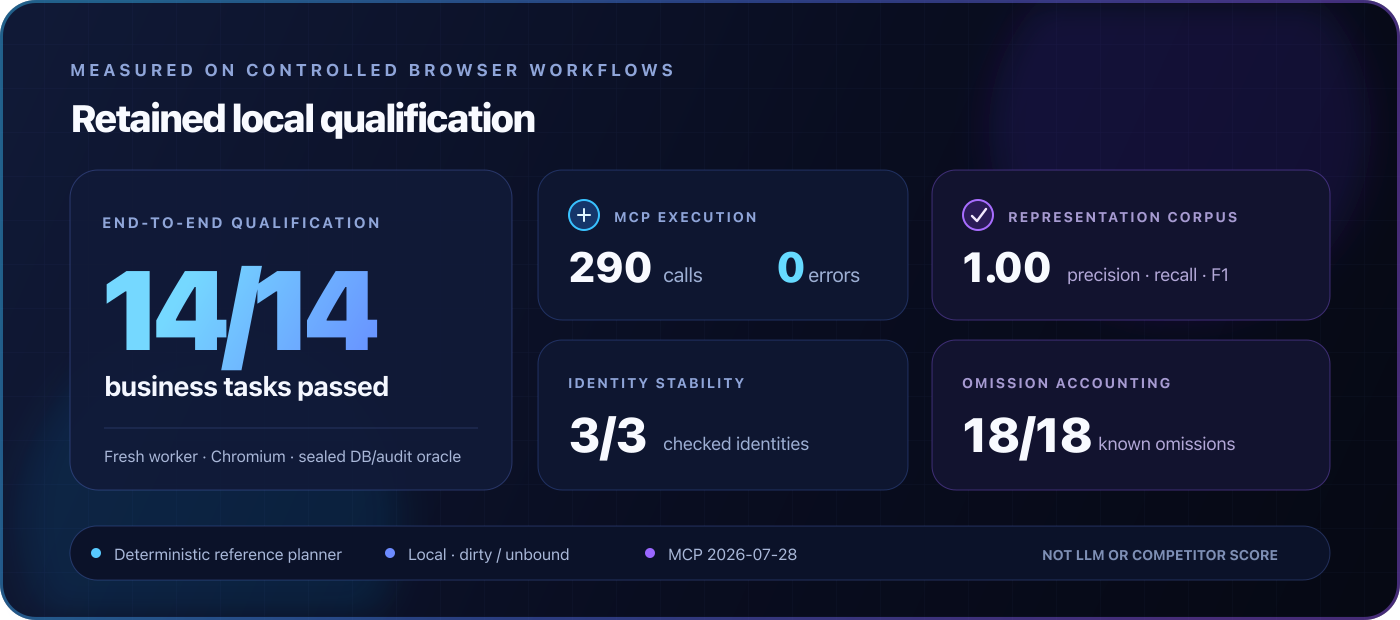
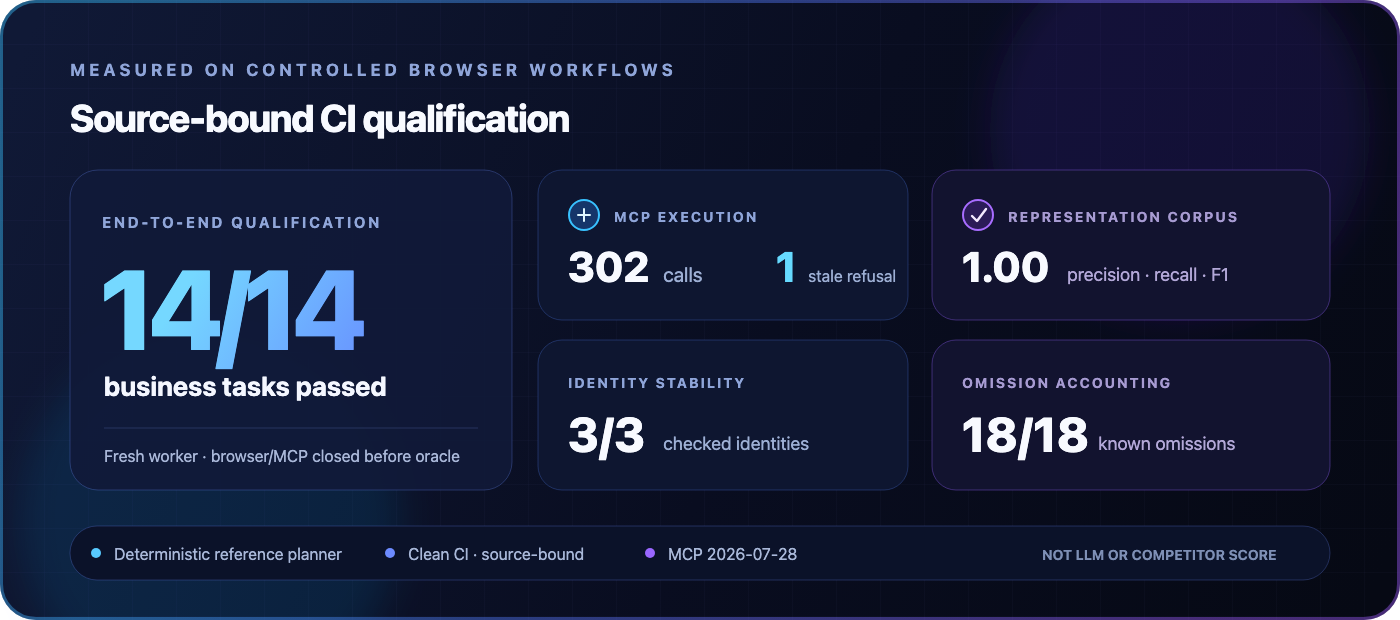
Publish qualified v13 evidence

diff --git a/docs/RELEASE_READINESS.md b/docs/RELEASE_READINESS.md
@@ -2,8 +2,8 @@
 
 Assessment updated: 2026-08-11 (Europe/Berlin)
 
-Status: **the Apache-2.0 source alpha is public and commit `0097f28` has a
-qualified, source-bound GitHub Actions dossier; npm packages and a tagged release
+Status: **the Apache-2.0 source alpha is public and commit `14f86f6` has a
+qualified, source-bound v13 GitHub Actions dossier; npm packages and a tagged release
 remain unpublished.** Publication gates must not be bypassed by weakening the
 release verifier or by presenting dirty/unbound local evidence as release
 evidence.
@@ -14,20 +14,21 @@ Local development and clean hosted CI produced the following engineering evidenc
 
 | Gate | Result |
 | --- | --- |
-| Current local working-tree verification (v13; not yet hosted) | 632 declared cases: 613 executed passes and 19 explicitly opt-in qualification cases skipped. By package: core 60/60, fixture 85/85, Playwright driver 107/107, benchmark 191/191, and MCP 170 passed with 19 skipped. All five package type checks passed. |
+| Qualified v13 workspace verification (commit `14f86f6`) | 632 declared cases: 613 executed passes and 19 explicitly opt-in qualification cases skipped. By package: core 60/60, fixture 85/85, Playwright driver 107/107, benchmark 191/191, and MCP 170 passed with 19 skipped on both pinned Node versions. All five package type checks passed. |
 | Earlier direct workspace run | 487 declared cases and 468 executed passes with 19 skips; now stale because it predates the latest product and benchmark changes and must not be presented as the current total. |
 | Earlier retained machine-readable workspace evidence | 439 declared cases and 420 executed passes with 19 intentional skips; this dirty/unbound fragment predates the agent-benchmark expansion and no longer satisfies the current exact test-count policy |
 | Earlier combined workspace run | 324 passed with the same 19 opt-in cases skipped; retained only as a historical pre-release-evidence count |
 | Workspace type checking | Passed for all five tested packages |
 | Capability qualification | 5/5 browser workflows passed |
-| Database-backed task qualification | 14/14 tasks passed through the official MCP client; 299 MCP calls; 0 tool errors |
+| Database-backed task qualification | 14/14 tasks passed through the official MCP client in 302 MCP calls. BrowserIR refused one stale click before dispatch; the deterministic reference planner re-observed, re-resolved, and retried successfully. |
 | First public GitHub Actions run | Ran against `db39b82`; its failures were reproduced locally and traced to structured delta context being discarded by the qualification consumer, small visual-row offsets, a safe child environment omitting the CI browser path, Node 22 SQLite statement lifetime, and Ubuntu SVG font metrics. |
-| Clean hosted requalification | [Run `31520630516`](https://github.com/qng95/BrowserIR/actions/runs/31520630516) passed every required job on commit `0097f28`, including Node 22/24 workspace and packed-consumer matrices, 5/5 capabilities, 14/14 task oracles, representation, performance, production audit, and dossier assembly. |
+| Earlier clean hosted qualification | [Run `31520630516`](https://github.com/qng95/BrowserIR/actions/runs/31520630516) passed every required v11 job on commit `0097f28`. It remains valid for that source tree. |
+| Qualified v13 source run | [Run `31531657356`](https://github.com/qng95/BrowserIR/actions/runs/31531657356) passed every required v13 job on commit `14f86f6`, including Node 22/24 workspace and packed-consumer matrices, 5/5 capabilities, 14/14 task oracles, representation, performance, production audit, and dossier assembly. |
 | Representation release gate | 31/31 entities, 44/44 capabilities, 28/28 relations, 1/1 abstention, 3/3 stable identities, and 18/18 omissions accounted for |
 | Public package verification | Passed exact package-file and manifest checks |
 | Packed-consumer smoke | Passed fresh tarball install, imports and declarations, Chromium install, stock stdio MCP negotiation, all nine safe tools, PNG capture, and cleanup |
 | Production dependency audit | Clean hosted audit passed with 0 vulnerabilities across 12 production dependencies and 0 muted advisories |
-| Release evidence dossier | Qualified for source-bound commit `0097f28`; the GitHub artifact is checksummed and retained for 90 days |
+| Release evidence dossier | Qualified for source-bound commit `14f86f6`; the GitHub artifact is checksummed and retained until 2026-11-09 |
 | Public-release verifier | Apache-2.0 and repository checks pass. It now reports only six intentional npm-publication blockers: `private` and missing public `publishConfig` on each of the three product packages. |
 
 The qualification client used MCP protocol `2026-07-28`. Every isolated
@@ -54,17 +55,21 @@ The assembler accepts only schema `1.1.0` passing fragments from one clean,
 source-bound GitHub Actions commit and run attempt. It verifies stable endpoint
 source snapshots, commit/tree, lockfile and source hashes, per-file checksums,
 gate-specific results, and the exact reviewed workspace test-count policy ID.
-The current local policy is `2026-08-11-v13`, requiring 632 declared, 613
+The current policy is `2026-08-11-v13`, requiring 632 declared, 613
 executed, and 19 skipped cases. It includes the sealed-benchmark hardening in
-this working tree and is not yet a qualified hosted dossier.
+commit `14f86f6` and has a qualified hosted dossier.
 
-The latest qualified public dossier is
+The qualified public source release-evidence dossier for the hardening commit is
+`release-evidence-dossier-31531657356-1-14f86f6380f164fffb9fcdb3aa74352ca4c7a8f0`,
+bound to commit `14f86f6380f164fffb9fcdb3aa74352ca4c7a8f0` under policy `v13`
+(632 declared, 613 executed, 19 skipped). GitHub reports the artifact digest as
+`sha256:18cdf6cdd13d1ce54110204c76a354af088825293e1fcb465554ed3a996fdfe4`.
+
+The previous v11 dossier,
 `release-evidence-dossier-31520630516-1-0097f28c754e029f5f4f32fb3476a56d3035fc64`,
-bound to commit `0097f28c754e029f5f4f32fb3476a56d3035fc64` under policy `v11`
-(589 declared, 570 executed, 19 skipped). GitHub reports the artifact digest as
+remains valid for commit `0097f28c754e029f5f4f32fb3476a56d3035fc64`
+(589 declared, 570 executed, 19 skipped), with GitHub-reported digest
 `sha256:d995c1d73fb5fb5b3b69c2b121715f634c76e5113ff155bd6dbbb6324a32b83a`.
-The new `v13` hardening must receive its own clean hosted qualification after it
-is committed; the prior dossier does not certify uncommitted code.
 
 The retained local fragments below were produced before the public Git source
 commit and therefore cannot be assembled into a qualified dossier. The latest
@@ -87,7 +92,7 @@ An earlier workspace attempt, `workspace-local-2026-08-11-v3`, correctly
 retained a failure caused by another local build cleaning `dist` concurrently.
 The retained `v8` run above superseded that earlier failure, but it now predates
 the latest changes; both that fragment and its `v8` exact-count policy are stale.
-Run `31520630516` supersedes those local fragments as the latest qualified,
+Run `31531657356` supersedes those local fragments as a qualified,
 clean-commit qualification.
 
 CI fragments and the dossier are retained for 90 days. Before publication, the
@@ -187,11 +192,8 @@ even after a frozen reinstall.
    `@browserir/playwright`, and `@browserir/mcp`.
 3. Select version and dist-tag semantics. The recommended alpha identity is
    `0.1.0-alpha.1` published under the `alpha` tag.
-4. Commit the v13 hardening, run the pinned Node 22.13.0 and 24.19.0 CI matrix,
-   assemble all nine source-bound fragments, and qualify that exact commit. The
-   existing `0097f28` dossier remains valid for its source but does not certify
-   the new code. Promote the selected qualified dossier before its 90-day CI
-   retention expires and record its durable location.
+4. Promote the v13 dossier for commit `14f86f6` unchanged to approved
+   durable storage before its 2026-11-09 CI expiry, and record that location.
 5. After those decisions are recorded, remove `private` from only the three
    public packages and set their
    `publishConfig.access` to `public`. Then re-run `pnpm verify:release`; only

diff --git a/docs/KANBAN.md b/docs/KANBAN.md
@@ -12,7 +12,7 @@ packages are `@browserir/core`, `@browserir/playwright`, and `@browserir/mcp`;
 `@think-dom/fixture-app` and `@browserir/benchmark` remain private development
 packages. Core runtime, Playwright driver, local stdio MCP delivery, fixture
 oracles, benchmark/report infrastructure, and the release-evidence pipeline are
-implemented. The current pre-commit workspace verification declares 632 cases:
+implemented. The latest qualified v13 workspace verification declares 632 cases:
 613 executed passes and 19 intentional opt-in cases skipped. All five package
 type checks pass. Earlier 487/468/19 and 439/420/19 runs remain retained
 dirty/unbound history under stale exact-count policies. Publication gates and
@@ -20,7 +20,7 @@ durable promotion of the qualified dossier remain open; see the
 [release-readiness assessment](RELEASE_READINESS.md) and
 [release-evidence guide](RELEASE_EVIDENCE.md).
 
-In the 2026-08-11 local evidence run, the post-hardening deterministic reference
+In an earlier 2026-08-11 local evidence run, the post-hardening deterministic reference
 planner completed all 14 isolated database-backed tasks through the stock
 nine-tool MCP surface and official MCP client: 14 passed, 0 failed, across 299
 MCP calls with no tool errors. All 14 workers observed the same tool-catalog
@@ -28,8 +28,11 @@ hash. That run
 qualifies BrowserIR representation/action reachability for the declared fixture
 workload; it is not an LLM-generalization test or competitor comparison. The
 workspace had no Git HEAD, so the report correctly records unavailable source
-provenance and a dirty tree. GitHub Actions later reproduced the complete result
-on clean, source-bound commit `0097f28` and assembled the qualified dossier.
+provenance and a dirty tree. The latest GitHub Actions qualification passed all
+14 tasks on clean, source-bound commit `14f86f6` in 302 calls. BrowserIR refused
+one stale action before dispatch; the deterministic reference planner
+re-observed, re-resolved, and retried successfully. The run assembled the
+qualified v13 dossier.
 
 The same operator-frozen local run series passed the independent representation
 gate: 31/31 entities, 44/44 capabilities, 28/28 relations, 1/1 abstention, 3/3
@@ -37,7 +40,7 @@ stable identities, and exact accounting of all 18 known scan omissions. A
 seven-screen warm steady-state characterization recorded 100 samples after five
 warmups per screen with raw samples and seeded 95% p50/p95 confidence
 intervals. Those retained local fragments remain dirty-tree history, while
-[GitHub Actions run `31520630516`](https://github.com/qng95/BrowserIR/actions/runs/31520630516)
+[GitHub Actions run `31531657356`](https://github.com/qng95/BrowserIR/actions/runs/31531657356)
 is the source-bound public qualification. Neither is a competitor comparison.
 
 ## Historical MCP vertical-slice audit (2026-07-29)
@@ -321,7 +324,7 @@ Gate: no uplift headline unless the 95% paired interval is entirely above zero
 and at most 5% of scheduled blocks are invalid. A regression or inconclusive
 result is published under its predeclared wording.
 
-Maintainer-owned release identity decisions and clean-commit qualification are
+Maintainer-owned release identity decisions and durable evidence promotion are
 the active release work. License, npm scope ownership, version/tag semantics,
 and publication authority remain external
 blockers. No public-package privacy or publication guard may be removed until
@@ -329,10 +332,9 @@ those decisions are recorded. After the final metadata, `private`, and
 `publishConfig` changes, `pnpm verify:release` must pass before candidate
 artifacts are retained or published.
 
-The canonical repository has qualified source-bound commit `0097f28`. The new
-v13 hardening must now pass the same seven-gate, nine-fragment GitHub Actions
-matrix on its own clean commit. The selected 90-day CI artifact must then be
-promoted unchanged to approved durable storage before publication.
+The canonical repository has qualified source-bound v13 commit `14f86f6` through
+the seven-gate, nine-fragment GitHub Actions matrix. The qualified CI artifact
+must be promoted unchanged to approved durable storage before publication.
 
 ### BIR-080–083 — Opt-in unsafe page evaluation
 
@@ -459,9 +461,9 @@ live probes.
   errors; retain and verify all 28 files including JSON, JUnit, logs,
   `evidence.json`, and `SHA256SUMS`.
 
-This completed the evidence mechanism. GitHub Actions later produced a qualified
-dossier for clean commit `0097f28`; the new v13 hardening still requires its own
-qualification. Neither dossier resolves npm ownership, version/tag, durable
+This completed the evidence mechanism. GitHub Actions later produced qualified
+dossiers for clean v11 commit `0097f28` and v13 commit `14f86f6`.
+Neither dossier resolves npm ownership, version/tag, durable
 promotion, or publish-authorization blockers.
 
 ### BIR-096 — Local alpha source qualification

diff --git a/README.md b/README.md
@@ -23,14 +23,14 @@
 <p align="center">
   <a href="#see-what-the-model-sees"><strong>See the representation</strong></a>
   &nbsp;·&nbsp;
-  <a href="#measured-on-real-browser-workflows"><strong>View the benchmark</strong></a>
+  <a href="#measured-on-real-browser-workflows"><strong>View the evidence</strong></a>
   &nbsp;·&nbsp;
   <a href="#try-it-from-source"><strong>Try the alpha</strong></a>
 </p>
 
 <p align="center">
   <sub>14/14 was reproduced by a clean, source-bound GitHub Actions run on
-  <a href="https://github.com/qng95/BrowserIR/actions/runs/31520630516"><code>0097f28</code></a>.
+  <a href="https://github.com/qng95/BrowserIR/actions/runs/31531657356"><code>14f86f6</code></a>.
   It is deterministic system qualification—not an LLM or competitor score.</sub>
 </p>
 
@@ -115,17 +115,17 @@ observation keeps its revision.
 
 The benchmark is not a page that says “success.” It is a functional SQLite-backed
 dealership fixture with 5,000 customers, 12,000 vehicles, server-side validation,
-and an audit log. After browser access is sealed, a hidden database-and-audit
+and an audit log. After the browser and MCP client are closed, a hidden database-and-audit
 oracle judges the result.
 
 <p align="center">
-  <img src="assets/brand/browserir-benchmark.svg" width="100%" alt="BrowserIR local scorecard: 14 of 14 tasks, 299 MCP calls with zero errors, representation corpus F1 of 1.00, three of three identities, and eighteen of eighteen omissions">
+  <img src="assets/brand/browserir-benchmark.svg" width="100%" alt="BrowserIR source-bound scorecard: 14 of 14 tasks, 302 MCP calls with one non-dispatched stale refusal recovered by the reference planner, representation corpus F1 of 1.00, three of three identities, and eighteen of eighteen omissions">
 </p>
 
 ### Why 14/14 is hard to fake
 
 <p align="center">
-  <img src="assets/brand/browserir-scoring-method.svg" width="100%" alt="Five-stage scoring method: fresh worker, known-failing start, BrowserIR path, sealed access, and hidden database and audit oracle">
+  <img src="assets/brand/browserir-scoring-method.svg" width="100%" alt="Five-stage scoring method: fresh worker, known-failing start, BrowserIR path, access closed, and hidden database and audit oracle">
 </p>
 
 A task does **not** earn its point because the planner says it is finished, a
@@ -170,13 +170,13 @@ invented for the README.
 | Score | Plain-English meaning |
 | --- | --- |
 | **14 / 14 tasks** | All 14 applicable workflows passed their binary database-and-audit oracle in isolated workers. No task was counted as not applicable. |
-| **299 calls / 0 errors** | The official MCP client made 299 BrowserIR tool calls and none returned a tool-level error. This measures execution health; the oracles measure correctness. |
+| **302 calls / 1 stale refusal** | In this qualified run, BrowserIR refused one stale click before dispatch; the deterministic reference planner re-observed, re-resolved, and retried successfully. It is counted openly; the database and audit oracles determine correctness. |
 | **1.00 precision / recall / F1** | In the checked-in 11-case representation corpus, BrowserIR matched all 31 expected entities, 44 capabilities, and 28 relationships with no extras or misses. Precision punishes invented facts; recall punishes missing facts. |
 | **3 / 3 identities** | Three declared logical records kept the correct identity across rerender or replacement. A recycled virtual row becoming a different record must not inherit the old identity. |
 | **18 / 18 omissions** | Every known item hidden by a bounded scan was reported as omitted. BrowserIR did not turn “not scanned” into “nothing exists.” |
 
 **The scope matters:** these figures were reproduced by clean, source-bound CI
-on commit [`0097f28`](https://github.com/qng95/BrowserIR/actions/runs/31520630516),
+on commit [`14f86f6`](https://github.com/qng95/BrowserIR/actions/runs/31531657356),
 and the run produced a checksummed release-evidence dossier. The 14/14 result is
 a deterministic BrowserIR system qualification through real Chromium and the
 official MCP client—not an LLM score. The 1.00
@@ -307,8 +307,8 @@ pnpm benchmark:agent -- \
   --run-id local-model-test
 ```
 
-Every model attempt receives fresh application and browser state. Agent access is
-sealed before judging, collateral audited mutations fail the trial, and results
+Every model attempt receives fresh application and browser state. Agent access
+closes before judging, collateral audited mutations fail the trial, and results
 are emitted as create-only JSON, NDJSON, Markdown, and SHA-256 artifacts.
 
 ## Honest alpha boundaries

diff --git a/assets/brand/PRESS_KIT.md b/assets/brand/PRESS_KIT.md
@@ -31,23 +31,25 @@ semantic entities, relationships, state, available actions, and revision-bound
 references, then exposes them through a TypeScript core and MCP.
 
 Playwright remains underneath for reliable browser mechanics. Arbitrary page-code
-execution is absent by default. The deterministic qualification
-passes 14/14 database-judged fixture tasks through real Chromium and the official
-MCP client using 299 tool calls with zero tool errors. A clean, source-bound
-GitHub Actions run reproduced the result and assembled a checksummed release
+execution is absent by default. The latest qualified v13 run passed 14/14
+database-judged fixture tasks through real Chromium and the official MCP client
+in 302 tool calls. BrowserIR refused one stale action before dispatch; the
+deterministic reference planner re-observed, re-resolved, and retried
+successfully. That clean, source-bound GitHub Actions run assembled a checksummed release
 evidence dossier. It remains a system qualification, not an LLM or competitor
 score.
 
 ## Current source-bound engineering evidence
 
-These figures were reproduced on commit `0097f28` by GitHub Actions run
-`31520630516` and are bound to that complete source tree.
+These figures were reproduced on commit `14f86f6` by GitHub Actions run
+`31531657356` and are bound to that complete source tree.
 
 - Two product surfaces: a reusable TypeScript core and a local MCP server.
 - Browser execution: Playwright over Chromium in the `0.1` alpha.
 - Default MCP surface: nine typed tools; arbitrary page-code execution absent.
 - Controlled fixture: 5,000 customers, 12,000 vehicles, and 14 workflows.
-- Deterministic qualification: 14/14 tasks, 299 MCP calls, 0 tool errors.
+- Latest v13 qualification run: 14/14 tasks and 302 MCP calls. BrowserIR refused
+  one stale action before dispatch; the reference planner recovered it.
 - Checked-in 11-case representation corpus: 1.00 precision, recall, and F1 over
   31 entities, 44 capabilities, and 28 relationships within that corpus.
 - Status: public Apache-2.0 source alpha; packages are not yet published to npm.
@@ -85,9 +87,11 @@ relationships, available actions, revisions, and explicit omissions. Playwright
 handles browser mechanics underneath; a typed MCP server exposes BrowserIR to
 agents above it.
 
-The clean, source-bound 2026-08-11 deterministic CI run passes all 14 controlled,
-database-judged fixture tasks through real Chromium in 299 MCP calls with zero
-tool errors. That number is deliberately scoped: it is system qualification,
+The clean, source-bound 2026-08-11 v13 CI run passed all 14 controlled,
+database-judged fixture tasks through real Chromium in 302 MCP calls, with one
+stale action refused by BrowserIR before dispatch and recovered by the
+deterministic reference planner. That result is
+deliberately scoped: it is system qualification,
 not a real-model or competitor result.
 
 ## FAQ

diff --git a/assets/brand/README.md b/assets/brand/README.md
@@ -82,10 +82,13 @@ execution.
 Use this exact scoped formulation:
 
 > In a clean, source-bound CI deterministic qualification, BrowserIR completed 14/14 controlled
-> fixture tasks through real Chromium and the official MCP client, using 299
-> MCP calls with zero tool errors. A separate checked-in representation corpus
+> fixture tasks through real Chromium and the official MCP client. In that run,
+> the client made 302 MCP calls. BrowserIR refused one stale action before
+> dispatch; the deterministic reference planner re-observed, re-resolved, and
+> retried successfully.
+> A separate checked-in representation corpus
 > matched 31 entities, 44 capabilities, and 28 relationships without errors in
-> that corpus. GitHub Actions reproduced these results on commit `0097f28` and
+> that corpus. GitHub Actions reproduced these results on commit `14f86f6` and
 > assembled a checksummed release-evidence dossier. They are system qualification,
 > not an LLM or competitor score.
 
